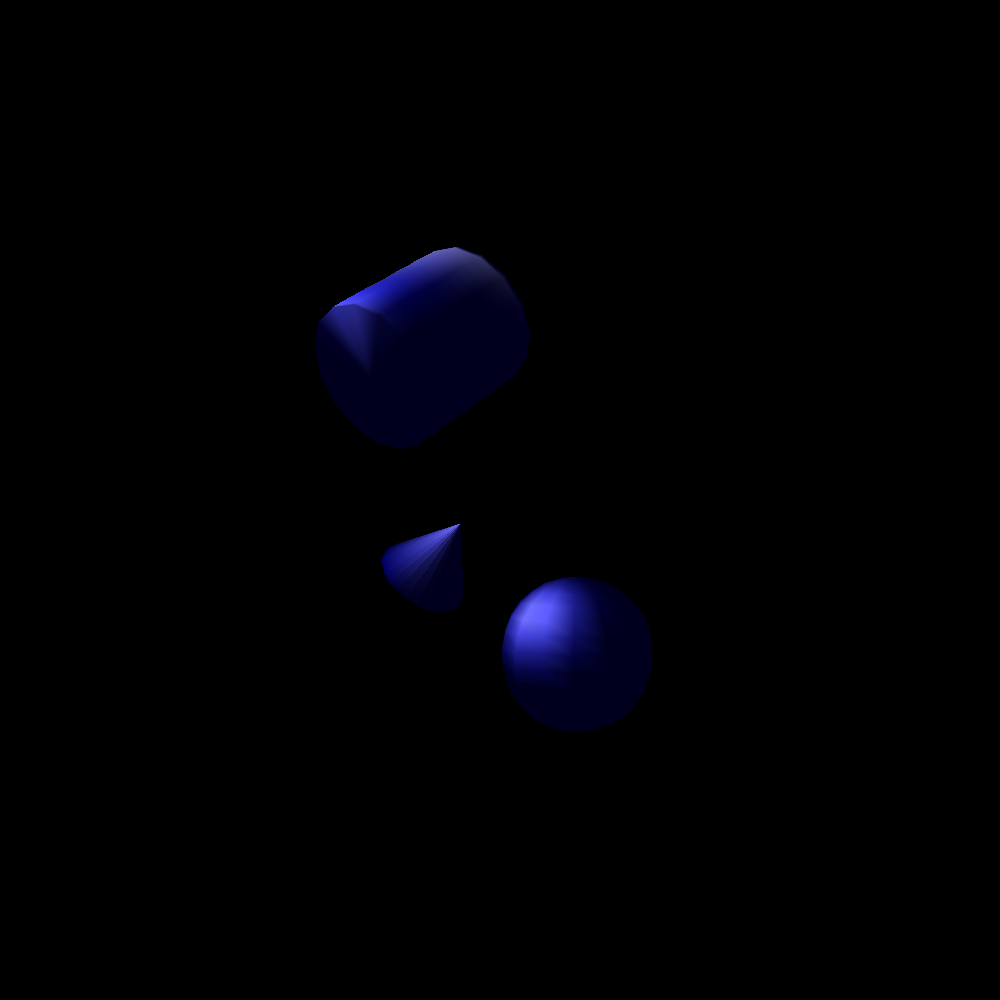
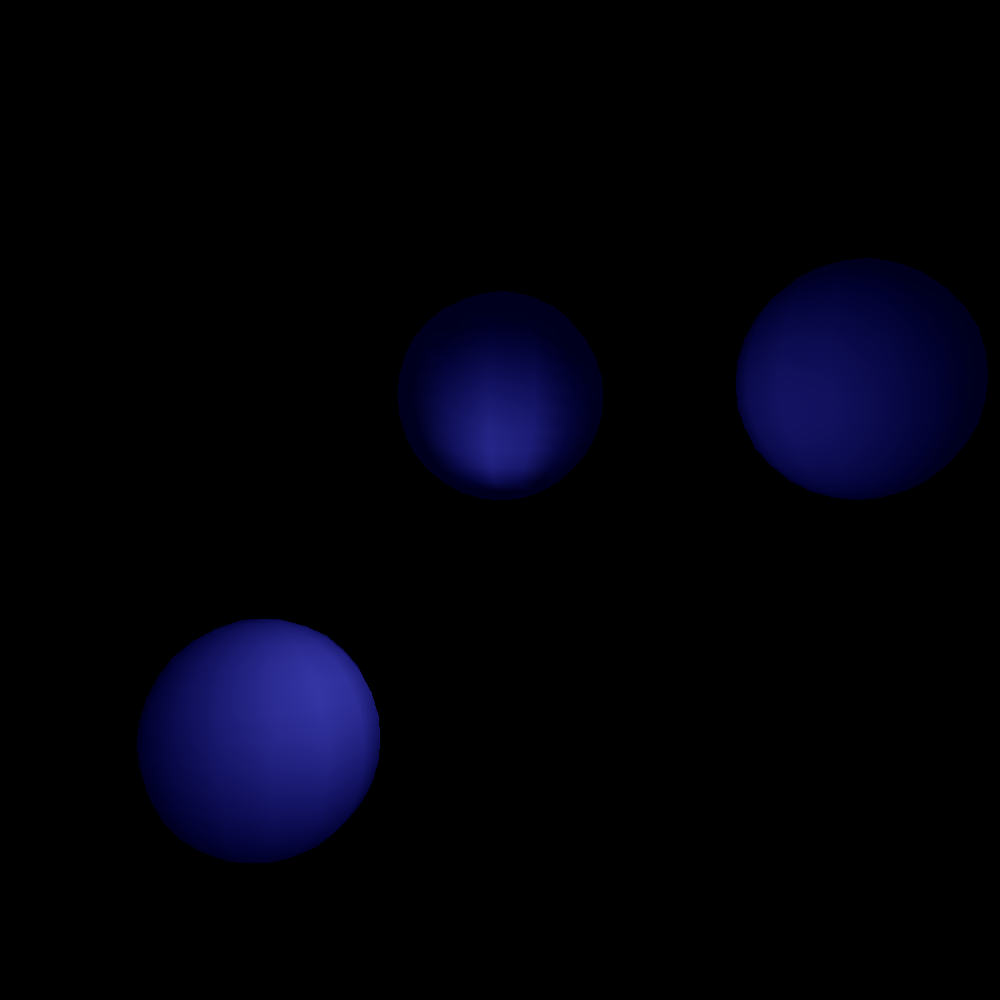
Kinda working PointLight

diff --git a/Zad1/PointLight.cpp b/Zad1/PointLight.cpp
@@ -1,4 +1,5 @@
 #include "PointLight.h"
+#include <iostream>
 
 PointLight::PointLight(Vector3 position, Vector3 ambient, Vector3 diffuse, Vector3 specular, int shininess, float specularStrenght)
 {
@@ -16,8 +17,8 @@ void PointLight::Calculate(Mesh& mesh)
 	for (int i = 0; i < mesh.vSize; ++i)
 	{
 		//vertices and normals
-		Vector4 normals = mesh.model * Vector4(mesh.normals[i], 0);
-		Vector4 vertices = mesh.model * Vector4(-mesh.vertices[i], 0);
+		Vector4 normals = mesh.model * Vector4(mesh.normals[i], 1);
+		Vector4 vertices = mesh.model * Vector4(mesh.vertices[i], 1);
 		Vector3 N = Vector3(normals.x, normals.y, normals.z);
 		Vector3 V = Vector3(vertices.x, vertices.y, vertices.z);
 		
@@ -25,14 +26,15 @@ void PointLight::Calculate(Mesh& mesh)
 
 		//light position
 		Matrix4 model;
-		model = Matrix4::Translate(model, Vector3(3, 0, 17));
-		Vector4 pos = model * Vector4(position, 0);
+		//model = Matrix4::Translate(model, Vector3(1, 0, 17));
+		Vector4 pos = model * Vector4(position, 1);
 		Vector3 lightPosition = Vector3(pos.x, pos.y, pos.z);
 		//lightPosition = lightPosition.Normalize();
-		Vector3 L =  V - lightPosition;
+		Vector3 L =  lightPosition - V;	
+		
 		L = Vector3::Normalize(L);
+		std::cout << L.ToString() << "\n";
 		V = Vector3::Normalize(V);
-
 
 		//difffuse
 		float diffuse = Vector3::Dot(L, N);
@@ -41,7 +43,7 @@ void PointLight::Calculate(Mesh& mesh)
 		Vector3 dif = diffuseColor * diffuse;
 
 		//specular
-		Vector3 R = L - (N * 2 * (Vector3::Dot(L, N)));
+		Vector3 R = (N * 2 * (Vector3::Dot(L, N))) - L;
 		R = Vector3::Normalize(R);
 		float specular = Vector3::Dot(R, V);
 		Vector3 spec;
@@ -49,7 +51,7 @@ void PointLight::Calculate(Mesh& mesh)
 		if (specular > 0)
 		{
 			specular = pow(specular, 2);
-			spec = specularColor * specular * 0.5;
+			spec = specularColor * specular * 0.9;
 		}
 		
 		mesh.colors.push_back(dif + spec + ambientColor);

diff --git a/Zad1/RenderingAlghortims.cpp b/Zad1/RenderingAlghortims.cpp
@@ -18,9 +18,9 @@ int main()
 
 
 
-	Sphere sphere(15, 14);
-	Cylinder cylinder(15, 15);
-	Cone cone(25, 0.6);
+	Sphere sphere(15, 15);
+	Sphere cone(15, 15);
+	Sphere cylinder(15, 15);
 
 	Matrix4 obj2view;
 	obj2view.Perspective(50, 1.f, 0.1f, 100.f);
@@ -29,16 +29,16 @@ int main()
 	camera = camera.LookAt(Vector3(0, 0, 0), Vector3(0, 0, 10), Vector3(0, 1, 0));
 
 	Matrix4 model;
-	model = model.Translate(model, Vector3(1, 2, 14));
+	model = model.Translate(model, Vector3(0, -1, 10.4));
 	//model = model.Rotate(model, Vector3(1, 0, 1), 45);
 
 	Matrix4 m;
-	m = m.Translate(m, Vector3(-1, 1, 14));
-	m = m.Rotate(m, Vector3(1, 0, 1), 45);
+	m = m.Translate(m, Vector3(-2, 2, 9));
+	//m = m.Rotate(m, Vector3(1, 0, 1), 45);
 
 	Matrix4 mC;
-	mC = mC.Translate(mC, Vector3( -1, -2, 14));
-	mC = mC.Rotate(mC, Vector3(-1, 0, 1), 60);
+	mC = mC.Translate(mC, Vector3( 3, -1, 9));
+	//mC = mC.Rotate(mC, Vector3(-1, 0, 1), 60);
 
 	sphere.SetModelMatrix(model);
 	sphere.SetCamera(camera);
@@ -57,7 +57,7 @@ int main()
 	cylinder.SetView();
 
 	DirectionalLight dl(Vector3(0.9f, 0.0, -0.4f), Vector3(0,0,0),Vector3(0,0,0),Vector3(0,0,0));
-	PointLight pl(Vector3(1,1,1), Vector3(0, 0, 30), Vector3(0, 0, 170), Vector3(255, 255, 255));
+	PointLight pl(Vector3(0,0.4, 10), Vector3(0, 0, 30), Vector3(0, 0, 170), Vector3(255, 255, 255));
 
 	dl.Calculate(sphere);
 	pl.Calculate(sphere);
@@ -66,8 +66,9 @@ int main()
 	dl.Calculate(cylinder);
 	pl.Calculate(cylinder);
 
+
 	std::vector<Mesh> figures;
-	figures = { sphere,cone, cylinder};
+	figures = { sphere, cone, cylinder };
 	for (int i = 0; i < HEIGHT; i++)
 	{
 		for (int j = 0; j < WIDTH; j++)
